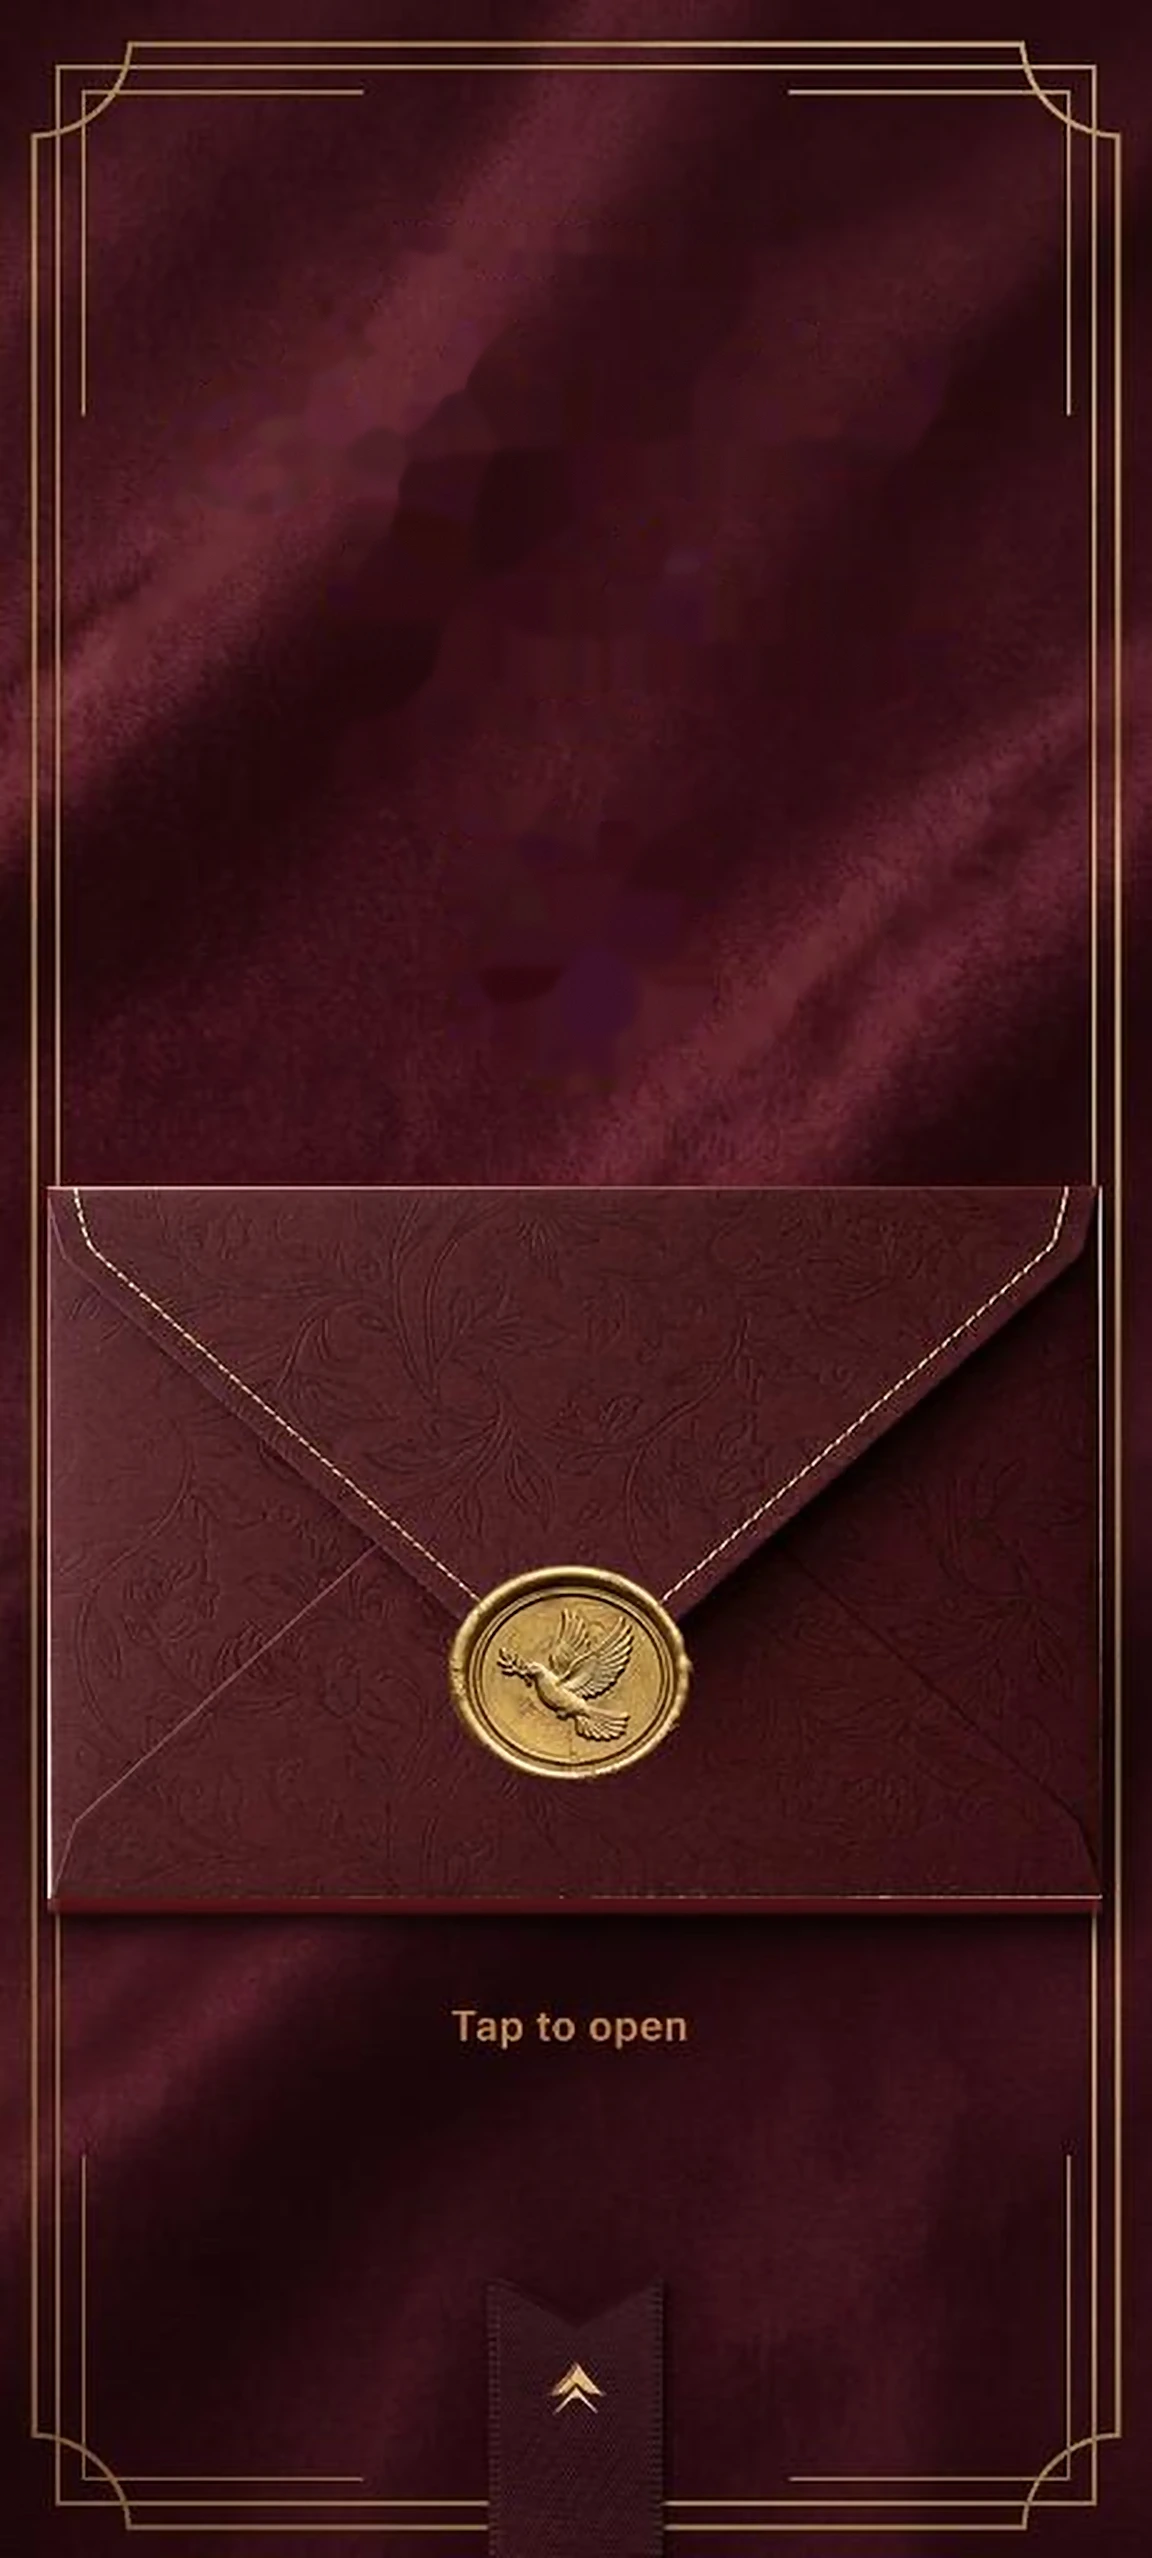
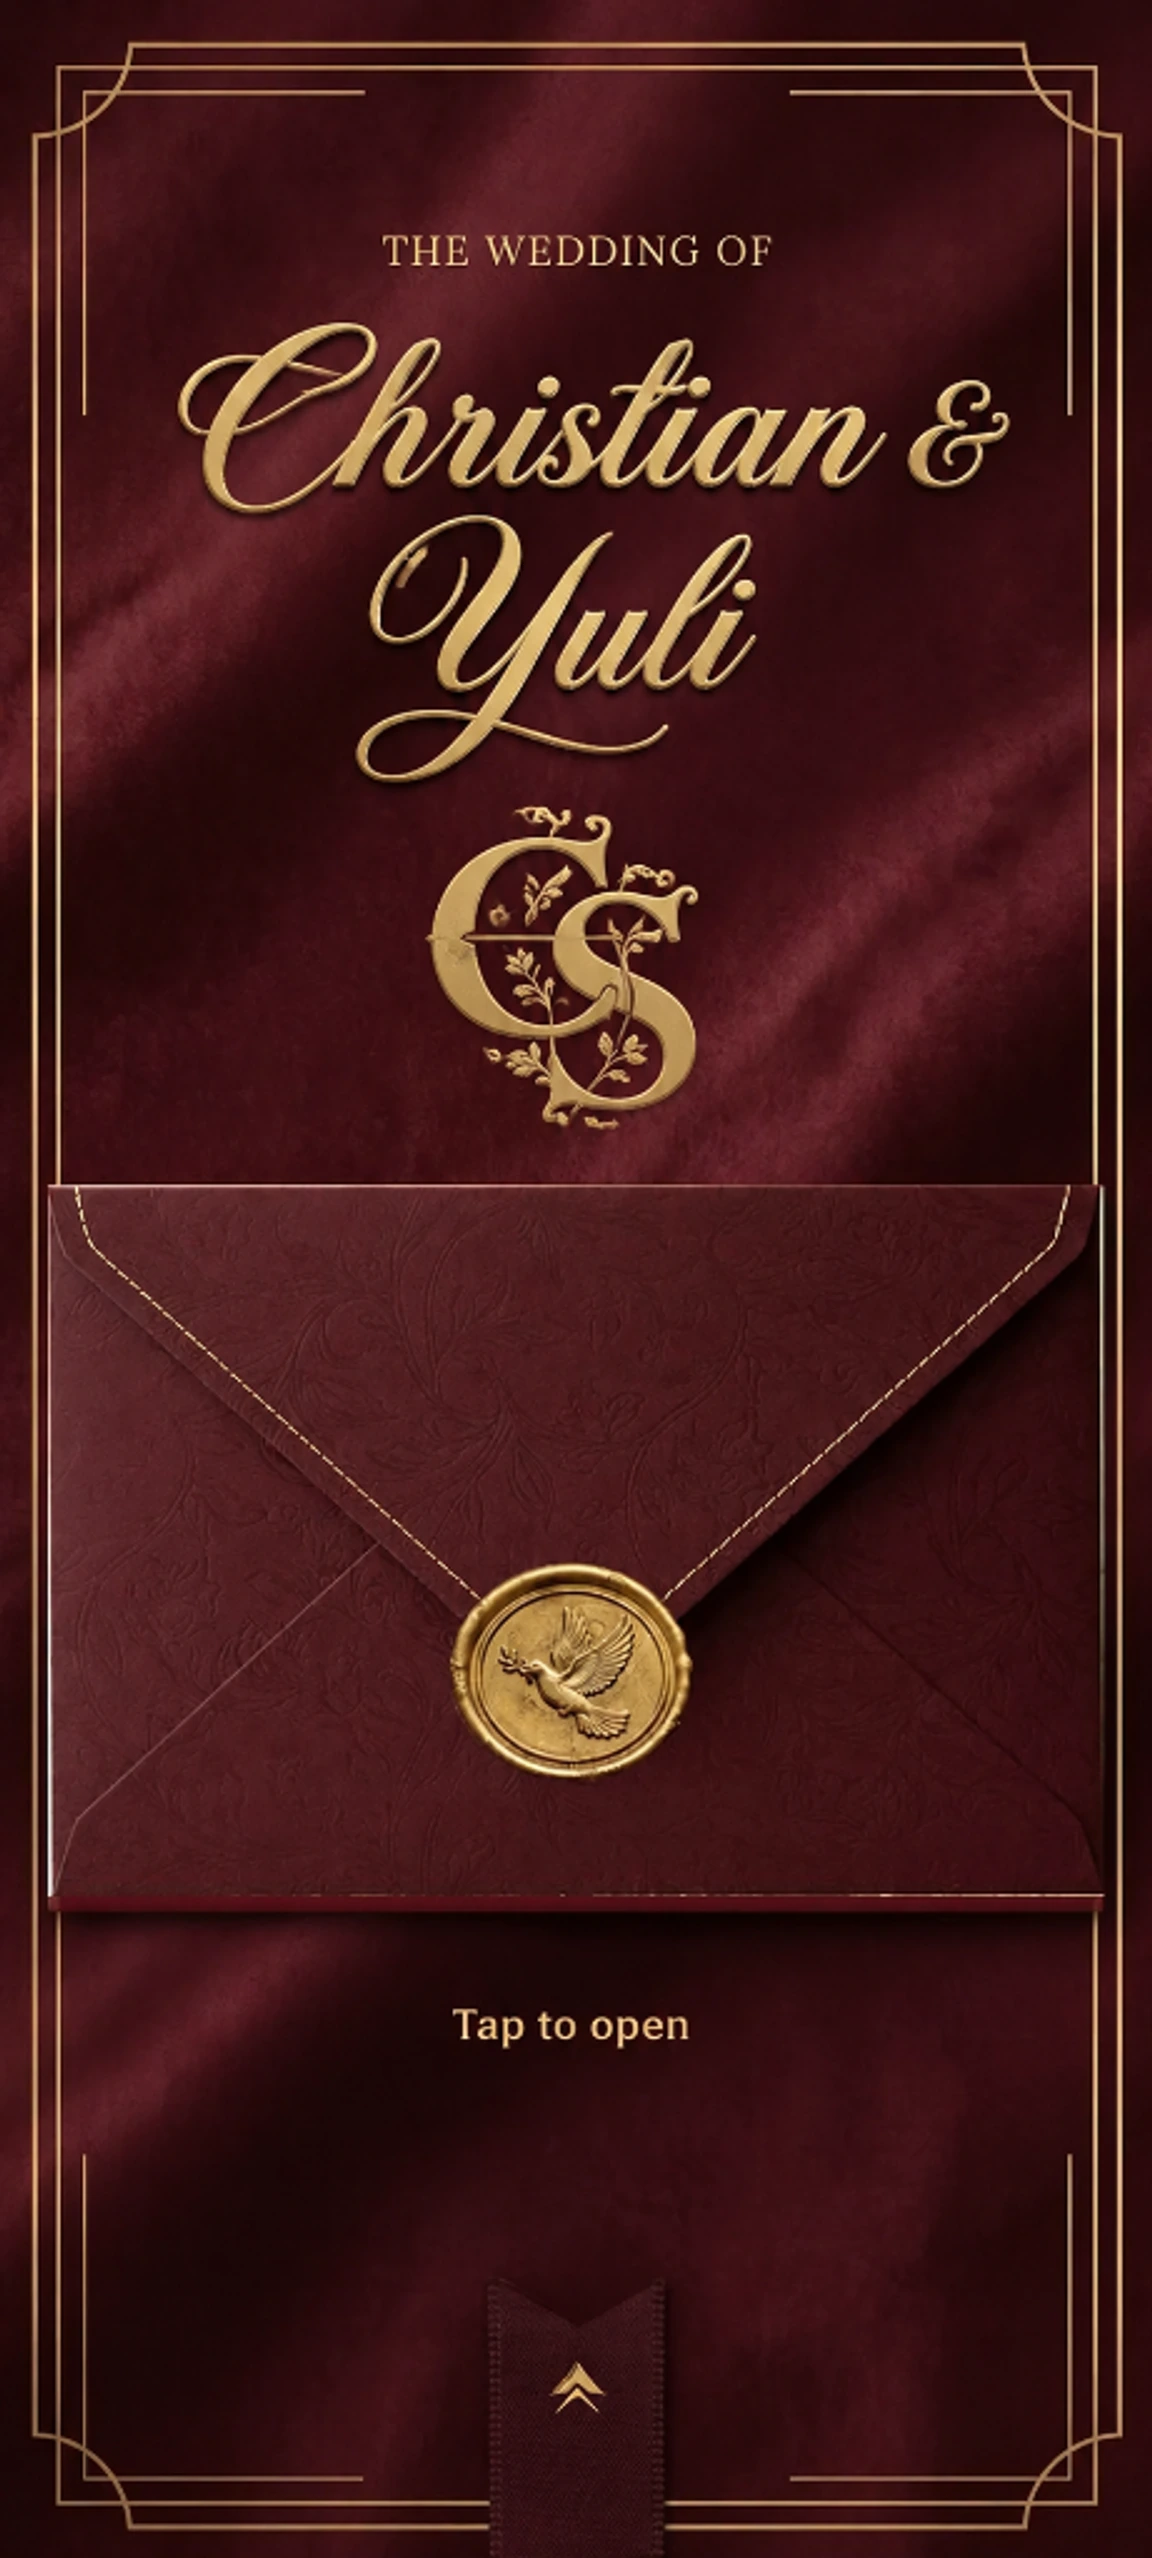
Replace full invitation cover with user-provided artwork in WebP format

diff --git a/components/sections/EnvelopeOpening.tsx b/components/sections/EnvelopeOpening.tsx
@@ -104,117 +104,7 @@ export default function EnvelopeOpening({ onOpen }: EnvelopeOpeningProps) {
           className="w-full h-full object-fill pointer-events-none select-none"
         />
 
-        {/* Royal Cover Title, Couple Names & Monogram */}
-        <div
-          className="absolute top-[8.2%] left-0 w-full flex flex-col items-center pointer-events-none select-none px-4"
-          style={{ zIndex: 10 }}
-        >
-          {/* THE WEDDING OF */}
-          <p
-            className="font-serif text-[#ebd89f] tracking-[0.32em] text-[10px] sm:text-[12px] uppercase font-light"
-            style={{
-              textShadow: "0 2px 4px rgba(0,0,0,0.9), 0 0 10px rgba(212,175,55,0.3)",
-            }}
-          >
-            The Wedding Of
-          </p>
 
-          {/* Christian & Yuli in Elegant Script with Royal Gold Gradient */}
-          <div className="flex flex-col items-center mt-2.5 sm:mt-3.5 mb-2 sm:mb-3">
-            <span
-              className="font-[family-name:var(--font-script-vibes)] text-4xl sm:text-6xl text-transparent bg-clip-text bg-gradient-to-b from-[#fff9e6] via-[#e5c158] to-[#9e7623] leading-[1.08] tracking-wide"
-              style={{
-                filter: "drop-shadow(0 4px 10px rgba(0,0,0,0.95)) drop-shadow(0 0 16px rgba(212,175,55,0.35))",
-              }}
-            >
-              Christian &amp;
-            </span>
-            <span
-              className="font-[family-name:var(--font-script-vibes)] text-4xl sm:text-6xl text-transparent bg-clip-text bg-gradient-to-b from-[#fff9e6] via-[#e5c158] to-[#9e7623] leading-[1.08] tracking-wide -mt-1 sm:-mt-2"
-              style={{
-                filter: "drop-shadow(0 4px 10px rgba(0,0,0,0.95)) drop-shadow(0 0 16px rgba(212,175,55,0.35))",
-              }}
-            >
-              Yuli
-            </span>
-          </div>
-
-          {/* Royal Interlocking Monogram: C & Y */}
-          <div className="relative flex items-center justify-center mt-1">
-            <svg
-              viewBox="0 0 160 160"
-              className="w-16 h-16 sm:w-20 sm:h-20 drop-shadow-[0_4px_12px_rgba(0,0,0,0.9)]"
-            >
-              <defs>
-                <linearGradient id="monogramGold" x1="0%" y1="0%" x2="100%" y2="100%">
-                  <stop offset="0%" stopColor="#fff8e1" />
-                  <stop offset="35%" stopColor="#dfb858" />
-                  <stop offset="70%" stopColor="#aa7d27" />
-                  <stop offset="100%" stopColor="#e8ca79" />
-                </linearGradient>
-              </defs>
-
-              {/* Ornate Circular Filigree Frame */}
-              <circle
-                cx="80"
-                cy="80"
-                r="68"
-                fill="none"
-                stroke="url(#monogramGold)"
-                strokeWidth="1.2"
-                strokeDasharray="4 3"
-                opacity="0.75"
-              />
-              <circle
-                cx="80"
-                cy="80"
-                r="62"
-                fill="none"
-                stroke="url(#monogramGold)"
-                strokeWidth="0.8"
-                opacity="0.85"
-              />
-
-              {/* Interlocking Serif Monogram Letters */}
-              <text
-                x="56"
-                y="94"
-                fontFamily="var(--font-playfair), serif"
-                fontSize="50"
-                fontWeight="600"
-                fontStyle="italic"
-                fill="url(#monogramGold)"
-                textAnchor="middle"
-              >
-                C
-              </text>
-              <text
-                x="80"
-                y="86"
-                fontFamily="var(--font-playfair), serif"
-                fontSize="22"
-                fontStyle="italic"
-                fill="url(#monogramGold)"
-                textAnchor="middle"
-                opacity="0.85"
-              >
-                &amp;
-              </text>
-              <text
-                x="104"
-                y="94"
-                fontFamily="var(--font-playfair), serif"
-                fontSize="50"
-                fontWeight="600"
-                fontStyle="italic"
-                fill="url(#monogramGold)"
-                textAnchor="middle"
-              >
-                Y
-              </text>
-            </svg>
-          </div>
-        </div>
 
         {/* 2. Royal Letter Card (Slides out proportionally above envelope pocket) */}
         <motion.div
